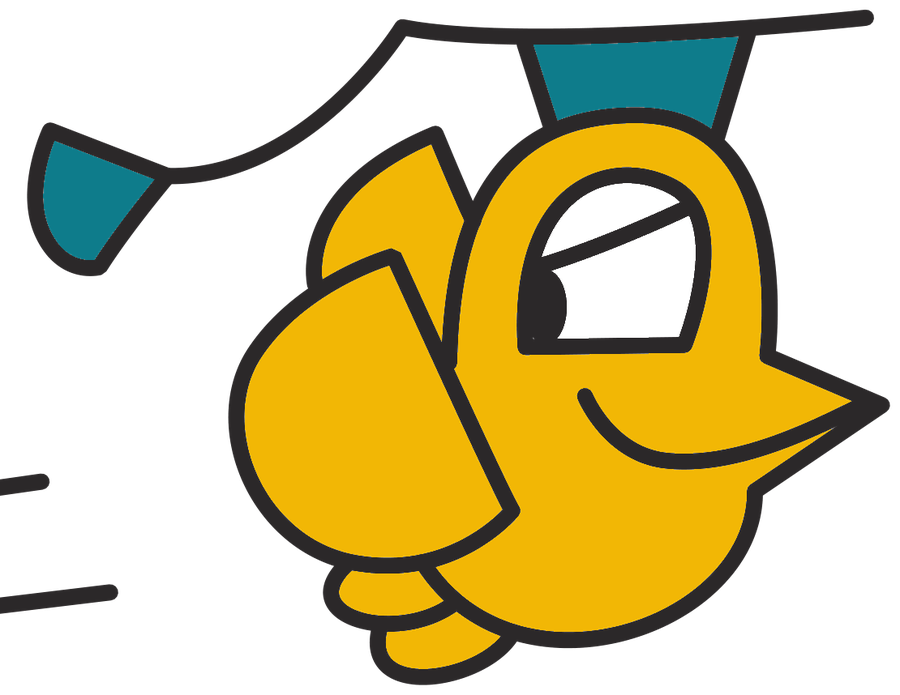
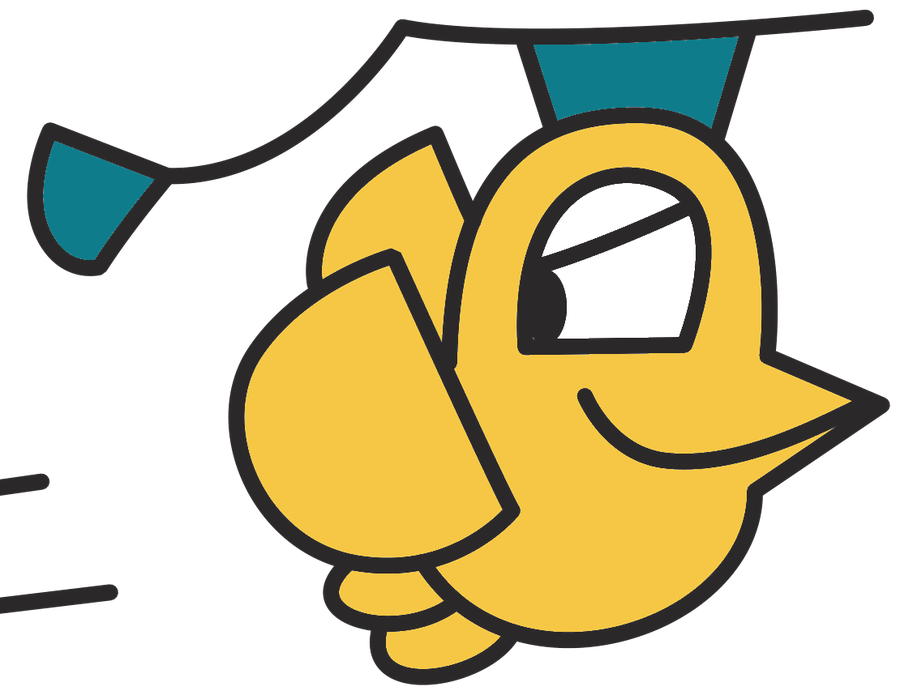
Ajustes finos de conteúdo, cores e imagens reais do livro
- Amarelo do site e do Criu mais claro (--amarelo)
- Título do hero com peso mais leve
- Fundo rosa pastel na seção "O livro"
- "Atualidade" no lugar de "Idade Contemporânea"
- Ajustes de texto: atividade complementar, bibliografia de concurso
  municipal, 12ª edição revisada e complementada
- Linha do tempo: substitui as 5 imagens pelas páginas reais do PDF
  (13, 35, 58, 108, 127)
- Marcadores do quiz da fundação reposicionados sobre os morros certos,
  cada um com uma cor
- Textos revisados em Caminhos do Rio (roteiros 01-04, 10) e na seção
  para escolas
- Acervo: mais 2 quadrinhos originais do livro e o recorte de jornal real
- Re-renderiza os quadrinhos do colage em resolução maior para
  equilibrar a espessura do traço entre a imagem principal e os pins

Changed region(s): [[0.2489, 0.1511, 0.9333, 0.9669]]

diff --git a/index.html b/index.html
@@ -27,7 +27,7 @@
   <!-- LCP: preload the hero cover -->
   <link rel="preload" as="image" href="assets/images/capa-riorio.webp" />
 
-  <link rel="stylesheet" href="assets/css/styles.css?v=4" />
+  <link rel="stylesheet" href="assets/css/styles.css?v=5" />
 </head>
 <body>
   <a class="skip-link" href="#conteudo">Pular para o conteúdo</a>
@@ -209,22 +209,22 @@
               </li>
               <li class="stat">
                 <span class="stat__num">4</span>
-                <span class="stat__label">períodos: Colônia, Império, República e Idade Contemporânea</span>
+                <span class="stat__label">períodos: Colônia, Império, República e Atualidade</span>
               </li>
             </ul>
 
             <p class="lede">
               RioRio promove a reflexão sobre a Cidade do Rio de Janeiro na
               <strong>Colônia</strong>, no <strong>Império</strong>, na <strong>República</strong> e na
-              <strong>Idade Contemporânea</strong>, até o ano 2000. É uma obra dedicada aos estudantes do
-              Ensino Fundamental, podendo ser adotada como atividade complementar de Geografia e História,
-              do 3º ao 5º ano.
+              <strong>Atualidade</strong>, até o ano 2000. É uma obra dedicada aos estudantes do
+              Ensino Fundamental, podendo ser adotada como atividade complementar no ensino de Geografia
+              e História, do 3º ao 5º ano.
             </p>
 
             <ul class="ticks" role="list">
               <li>Quadrinhos em preto e branco, desenhados inteiramente à mão livre, com informações complementares no rodapé de cada página.</li>
-              <li>Premiado pelo IAB e pela Câmara Municipal; considerado obra de referência na bibliografia oficial de concurso público municipal (2002).</li>
-              <li>Editado pela primeira vez em 1992; a 12ª edição foi inteiramente redesenhada.</li>
+              <li>Premiado pelo IAB e pela Câmara Municipal; considerado obra de referência na bibliografia oficial de concurso público municipal do Rio (2002).</li>
+              <li>Editado pela primeira vez em 1992; a 12ª edição foi revisada e complementada com novos desenhos.</li>
             </ul>
 
             <div class="btn-row">
@@ -293,7 +293,7 @@
             <div class="tl__text">
               <p class="tl__years">1808 – 1904</p>
               <h3 class="tl__name">Crescimento urbano do século XIX</h3>
-              <p>Com a chegada da Corte e, depois, o Império, a cidade se moderniza: praças, jardins,
+              <p>Com a chegada da Corte e, depois, e com o Império, a cidade se moderniza: praças, jardins,
                  as primeiras estradas de ferro e a expansão que prepara a grande reforma urbana.</p>
             </div>
           </article>
@@ -342,8 +342,8 @@
           <p class="kicker">Atividades</p>
           <h2 class="section-title" id="atv-title">Atividades para a sala de aula</h2>
           <p class="section-sub">
-            Exercícios que levam o estudante a observar a cidade — nascidos dos cadernos do
-            Caminhos do Rio. Experimente uma delas aqui mesmo.
+            Atividades que levam o estudante a observar a cidade fazem parte do projeto Caminhos do Rio.
+            Experimente uma delas aqui mesmo.
           </p>
         </header>
 
@@ -374,9 +374,9 @@
             <figure class="quiz__scene">
               <img src="assets/images/atv-fundacao.jpg" width="1024" height="288" loading="lazy" decoding="async"
                    alt="Panorama histórico da entrada da Baía de Guanabara com os morros Cara de Cão, da Urca e do Pão de Açúcar." />
-              <span class="quiz__marker" style="left:6%; top:74%">1</span>
-              <span class="quiz__marker" style="left:47%; top:66%">2</span>
-              <span class="quiz__marker" style="left:60%; top:34%">3</span>
+              <span class="quiz__marker" style="left:4%; top:67%; background:#4CC26B; border-color:#1f6b3a">1</span>
+              <span class="quiz__marker" style="left:68%; top:54%; background:#5B8DEF; border-color:#1f3f8b">2</span>
+              <span class="quiz__marker" style="left:61%; top:31%; background:#F06AA0; border-color:#8b1f52">3</span>
             </figure>
 
             <ul class="quiz__rows" role="list">
@@ -500,8 +500,8 @@
           <h2 class="section-title" id="criu-title">Quem conta a história é o Criu Carioca</h2>
           <p class="lede">
             O pássaro-professor Criu Carioca é o narrador do RioRio: estudioso, idealista e
-            apaixonado pela sua missão junto aos estudantes. Ele nunca desistiu de lutar por
-            um Rio melhor — e sua forma de luta é contar a história da cidade e levar o olhar
+            apaixonado por sua missão junto aos estudantes. Ele nunca desistiu de lutar por
+            um Rio melhor, e sua forma de luta é contar a história da cidade e levar o olhar
             do estudante à descoberta de seus espaços e belezas.
           </p>
           <ul class="quotes" role="list">
@@ -522,8 +522,8 @@
           <p class="kicker kicker--light">Caminhos do Rio</p>
           <h2 class="section-title section-title--light" id="caminhos-title">Das páginas do livro para as ruas da cidade</h2>
           <p class="section-sub section-sub--light">
-            Passeios culturais e aulas de campo pelo patrimônio histórico e artístico do Rio,
-            com um caderno de atividades pensado especialmente para cada roteiro.
+            Passeios culturais/aulas de campo pelo patrimônio histórico e artístico do Rio,
+            com um caderno de atividades idealizado especialmente para cada roteiro.
           </p>
         </header>
 
@@ -535,19 +535,19 @@
           <li class="route" style="--rc:var(--verde)">
             <a class="route__link" href="#contato">
               <span class="route__img"><img src="assets/images/rot-origem.webp" width="360" height="240" loading="lazy" decoding="async" alt="Praça XV e o Arco do Teles, ponto de partida do roteiro Origem da cidade."></span>
-              <span class="route__body"><span class="route__n">01</span><span class="route__name">Origem da cidade</span><span class="route__desc">Praça XV, Arco do Teles e Paço Imperial — a principal praça do período colonial.</span></span>
+              <span class="route__body"><span class="route__n">01</span><span class="route__name">Origem da cidade</span><span class="route__desc">Praça XV, Igreja Lapa dos Mercadores, Arco do Teles, Paço Imperial e Antiga Sé.</span></span>
             </a>
           </li>
           <li class="route" style="--rc:var(--ciano)">
             <a class="route__link" href="#contato">
               <span class="route__img"><img src="assets/images/rot-lagoas.webp" width="360" height="240" loading="lazy" decoding="async" alt="Igreja histórica do Centro, no roteiro das antigas lagoas."></span>
-              <span class="route__body"><span class="route__n">02</span><span class="route__name">Antigas lagoas do Centro</span><span class="route__desc">Boqueirão, Desterro e Santo Antônio: Passeio Público, Largo da Carioca e conventos.</span></span>
+              <span class="route__body"><span class="route__n">02</span><span class="route__name">Antigas lagoas do Centro</span><span class="route__desc">Boqueirão, Desterro e Santo Antônio: Convento de Santa Tereza, Igreja e Convento de Santo Antônio, Passeio Público e Largo da Carioca.</span></span>
             </a>
           </li>
           <li class="route" style="--rc:var(--laranja)">
             <a class="route__link" href="#contato">
               <span class="route__img"><img src="assets/images/rot-fundacao.webp" width="360" height="240" loading="lazy" decoding="async" alt="Muralhas e canhões antigos vistos no roteiro da fundação da cidade."></span>
-              <span class="route__body"><span class="route__n">03</span><span class="route__name">Fundação da cidade</span><span class="route__desc">Morro Cara de Cão, muralhas, fortes e a paisagem da Baía de Guanabara.</span></span>
+              <span class="route__body"><span class="route__n">03</span><span class="route__name">Fundação da cidade</span><span class="route__desc">Fortaleza de São João, Morro Cara de Cão, muralhas, fortes e a paisagem da Baía de Guanabara.</span></span>
             </a>
           </li>
           <li class="route route--off" style="--rc:var(--azul)">
@@ -555,7 +555,7 @@
               <span class="route__img"><img src="assets/images/rot-cristo.webp" width="360" height="240" loading="lazy" decoding="async" alt="Cristo Redentor no alto do Corcovado.">
                 <span class="route__flag" id="rot4-status">Indisponível no momento</span>
               </span>
-              <span class="route__body"><span class="route__n">04</span><span class="route__name">Cristo Redentor do Corcovado</span><span class="route__desc">A imagem do Cristo, a Estrada de Ferro do Corcovado e a Floresta da Tijuca vistas do alto.</span></span>
+              <span class="route__body"><span class="route__n">04</span><span class="route__name">Cristo Redentor do Corcovado</span><span class="route__desc">Imagem do Cristo Redentor, Estrada de Ferro do Corcovado, Floresta da Tijuca e paisagem do alto.</span></span>
             </a>
           </li>
           <li class="route" style="--rc:var(--rosa)">
@@ -591,7 +591,7 @@
           <li class="route" style="--rc:var(--rosa)">
             <a class="route__link" href="#contato">
               <span class="route__img"><img src="assets/images/rot-igrejas.webp" width="360" height="240" loading="lazy" decoding="async" alt="Talhas e pinturas de igrejas coloniais cariocas."></span>
-              <span class="route__body"><span class="route__n">10</span><span class="route__name">Igrejas coloniais</span><span class="route__desc">Antiga Sé, Candelária, São Bento e outras — o roteiro é definido com a escola.</span></span>
+              <span class="route__body"><span class="route__n">10</span><span class="route__name">Igrejas coloniais</span><span class="route__desc">Antiga Sé, Candelária, São Bento e outras, roteiro definido com a escola.</span></span>
             </a>
           </li>
         </ul>
@@ -683,6 +683,27 @@
               <span class="gallery__tag">Quadrinho</span>
             </a>
           </li>
+          <li class="gallery__item gallery__item--tall">
+            <a class="gallery__link" href="assets/images/comic-criu-intro.webp"
+               data-caption="Página original do livro RioRio: a apresentação do Criu Carioca e da Terra Carioca.">
+              <img src="assets/images/comic-criu-intro.webp" width="420" height="594" loading="lazy" decoding="async" alt="Página original do livro RioRio com a apresentação do Criu Carioca.">
+              <span class="gallery__tag">Quadrinho</span>
+            </a>
+          </li>
+          <li class="gallery__item">
+            <a class="gallery__link" href="assets/images/comic-criu-historia.webp"
+               data-caption="Página original do livro RioRio sobre a história do próprio Criu Carioca.">
+              <img src="assets/images/comic-criu-historia.webp" width="420" height="594" loading="lazy" decoding="async" alt="Página original do livro RioRio sobre a evolução do Criu Carioca ao longo das edições.">
+              <span class="gallery__tag">Quadrinho</span>
+            </a>
+          </li>
+          <li class="gallery__item">
+            <a class="gallery__link" href="assets/images/doc-jornal-jc2002.webp"
+               data-caption="Recorte de jornal — Jornal do Commercio, 11/11/2002.">
+              <img src="assets/images/doc-jornal-jc2002.webp" width="420" height="329" loading="lazy" decoding="async" alt="Recorte do Jornal do Commercio de 11/11/2002 sobre o livro RioRio e a Estrada de Ferro do Corcovado.">
+              <span class="gallery__tag">Jornal · 2002</span>
+            </a>
+          </li>
         </ul>
       </div>
     </section>
@@ -754,10 +775,10 @@
         <ul class="schools__grid" role="list" data-reveal>
           <li class="scard"><h3>Adoção do livro</h3><p>RioRio como atividade complementar de História e Geografia, do 3º ao 5º ano.</p></li>
           <li class="scard"><h3>Passeios culturais</h3><p>Dez roteiros de aulas de campo pelo patrimônio histórico e artístico do Rio.</p></li>
-          <li class="scard"><h3>Cadernos de atividades</h3><p>Material próprio para cada roteiro, pensado para o olhar do estudante.</p></li>
-          <li class="scard"><h3>Orientação no passeio</h3><p>Acompanhamento da turma durante toda a caminhada.</p></li>
-          <li class="scard"><h3>Formação de professores</h3><p>Apoio ao educador para aproveitar a obra e os roteiros em sala.</p></li>
-          <li class="scard"><h3>Novos roteiros</h3><p>Construção de percursos sob medida, definidos junto com a escola.</p></li>
+          <li class="scard"><h3>Cadernos de atividades</h3><p>Material próprio para cada roteiro, idealizado para incentivar o olhar do estudante a descobrir as belezas históricas da cidade.</p></li>
+          <li class="scard"><h3>Orientação no passeio</h3><p>Acompanhamento da turma durante toda a caminhada, descobrindo juntos as belezas do Rio.</p></li>
+          <li class="scard"><h3>Formação de professores</h3><p>Formação e orientação ao educador para aproveitar a obra e os roteiros em sala.</p></li>
+          <li class="scard"><h3>Novos roteiros</h3><p>Construção de percursos sob medida, definidos de acordo com o interesse da escola.</p></li>
         </ul>
         <div class="schools__cta" data-reveal>
           <a class="btn btn--yellow btn--lg" href="#contato">Leve o RioRio para a sua escola</a>

diff --git a/assets/css/styles.css b/assets/css/styles.css
@@ -40,8 +40,8 @@
   --azul:       #123C8C;   /* azul intenso */
 
   /* Acentos (≈15%) */
-  --amarelo:    #F2B705;   /* descoberta — fundos/realces */
-  --amarelo-cl: #FBE08A;
+  --amarelo:    #F6C744;   /* descoberta — fundos/realces (mais claro) */
+  --amarelo-cl: #FDE9AC;
   --rosa:       #C11F5B;   /* chamadas / acentos */
   --verde:      #2F8F5B;
   --laranja:    #D9642A;
@@ -211,7 +211,7 @@ section{ padding-block:clamp(3.5rem, 8vw, 6.5rem); position:relative; }
 }
 .seal__star{ width:1.1em; height:1.1em; color:var(--amarelo); }
 .hero__title{
-  font-size:clamp(2.5rem, 1.4rem + 5vw, 4.9rem); margin:1.1rem 0 0; font-weight:700;
+  font-size:clamp(2.5rem, 1.4rem + 5vw, 4.9rem); margin:1.1rem 0 0; font-weight:400;
 }
 .hero__lead{ font-size:clamp(1.05rem,1rem + .5vw,1.3rem); color:var(--tinta-70); max-width:34ch; margin-top:1.2rem; }
 .hero__actions{ margin-top:1.7rem; display:flex; flex-wrap:wrap; gap:.9rem; }
@@ -268,7 +268,7 @@ section{ padding-block:clamp(3.5rem, 8vw, 6.5rem); position:relative; }
 .manifesto__text strong{ color:#fff; }
 
 /* ---------- 7. BOOK SHOWCASE ---------- */
-.book-showcase{ background:var(--papel); }
+.book-showcase{ background:#FBEAF0; }
 .book-showcase__grid{ display:grid; grid-template-columns:1fr 1fr; gap:clamp(2rem,5vw,4rem); align-items:center; }
 .collage{ position:relative; margin:0; padding-block:1rem; }
 .collage__main{

diff --git a/atividade-1.html b/atividade-1.html
@@ -13,8 +13,8 @@
   <link rel="preconnect" href="https://fonts.googleapis.com" />
   <link rel="preconnect" href="https://fonts.gstatic.com" crossorigin />
   <link rel="stylesheet" href="https://fonts.googleapis.com/css2?family=Fraunces:ital,opsz,wght@0,9..144,400;0,9..144,600;0,9..144,700;1,9..144,500&family=Archivo:wght@400;500;600;700&family=Caveat:wght@600;700&display=swap" />
-  <link rel="stylesheet" href="assets/css/styles.css?v=4" />
-  <link rel="stylesheet" href="assets/css/atividades.css?v=4" />
+  <link rel="stylesheet" href="assets/css/styles.css?v=5" />
+  <link rel="stylesheet" href="assets/css/atividades.css?v=5" />
 </head>
 <body>
   <a class="skip-link" href="#conteudo">Pular para o conteúdo</a>

diff --git a/atividade-2.html b/atividade-2.html
@@ -13,8 +13,8 @@
   <link rel="preconnect" href="https://fonts.googleapis.com" />
   <link rel="preconnect" href="https://fonts.gstatic.com" crossorigin />
   <link rel="stylesheet" href="https://fonts.googleapis.com/css2?family=Fraunces:ital,opsz,wght@0,9..144,400;0,9..144,600;0,9..144,700;1,9..144,500&family=Archivo:wght@400;500;600;700&family=Caveat:wght@600;700&display=swap" />
-  <link rel="stylesheet" href="assets/css/styles.css?v=4" />
-  <link rel="stylesheet" href="assets/css/atividades.css?v=4" />
+  <link rel="stylesheet" href="assets/css/styles.css?v=5" />
+  <link rel="stylesheet" href="assets/css/atividades.css?v=5" />
 </head>
 <body>
   <a class="skip-link" href="#conteudo">Pular para o conteúdo</a>

diff --git a/atividade-3.html b/atividade-3.html
@@ -13,8 +13,8 @@
   <link rel="preconnect" href="https://fonts.googleapis.com" />
   <link rel="preconnect" href="https://fonts.gstatic.com" crossorigin />
   <link rel="stylesheet" href="https://fonts.googleapis.com/css2?family=Fraunces:ital,opsz,wght@0,9..144,400;0,9..144,600;0,9..144,700;1,9..144,500&family=Archivo:wght@400;500;600;700&family=Caveat:wght@600;700&display=swap" />
-  <link rel="stylesheet" href="assets/css/styles.css?v=4" />
-  <link rel="stylesheet" href="assets/css/atividades.css?v=4" />
+  <link rel="stylesheet" href="assets/css/styles.css?v=5" />
+  <link rel="stylesheet" href="assets/css/atividades.css?v=5" />
 </head>
 <body>
   <a class="skip-link" href="#conteudo">Pular para o conteúdo</a>

diff --git a/atividade-4.html b/atividade-4.html
@@ -13,8 +13,8 @@
   <link rel="preconnect" href="https://fonts.googleapis.com" />
   <link rel="preconnect" href="https://fonts.gstatic.com" crossorigin />
   <link rel="stylesheet" href="https://fonts.googleapis.com/css2?family=Fraunces:ital,opsz,wght@0,9..144,400;0,9..144,600;0,9..144,700;1,9..144,500&family=Archivo:wght@400;500;600;700&family=Caveat:wght@600;700&display=swap" />
-  <link rel="stylesheet" href="assets/css/styles.css?v=4" />
-  <link rel="stylesheet" href="assets/css/atividades.css?v=4" />
+  <link rel="stylesheet" href="assets/css/styles.css?v=5" />
+  <link rel="stylesheet" href="assets/css/atividades.css?v=5" />
 </head>
 <body>
   <a class="skip-link" href="#conteudo">Pular para o conteúdo</a>

diff --git a/atividade-5.html b/atividade-5.html
@@ -13,8 +13,8 @@
   <link rel="preconnect" href="https://fonts.googleapis.com" />
   <link rel="preconnect" href="https://fonts.gstatic.com" crossorigin />
   <link rel="stylesheet" href="https://fonts.googleapis.com/css2?family=Fraunces:ital,opsz,wght@0,9..144,400;0,9..144,600;0,9..144,700;1,9..144,500&family=Archivo:wght@400;500;600;700&family=Caveat:wght@600;700&display=swap" />
-  <link rel="stylesheet" href="assets/css/styles.css?v=4" />
-  <link rel="stylesheet" href="assets/css/atividades.css?v=4" />
+  <link rel="stylesheet" href="assets/css/styles.css?v=5" />
+  <link rel="stylesheet" href="assets/css/atividades.css?v=5" />
 </head>
 <body>
   <a class="skip-link" href="#conteudo">Pular para o conteúdo</a>
